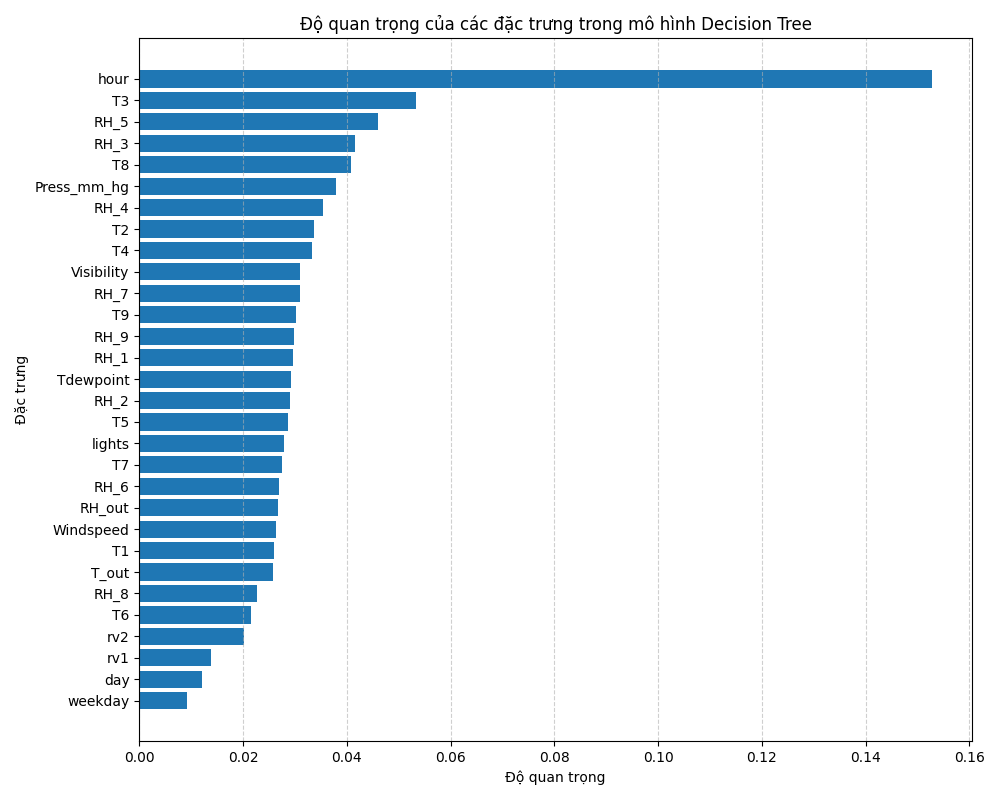
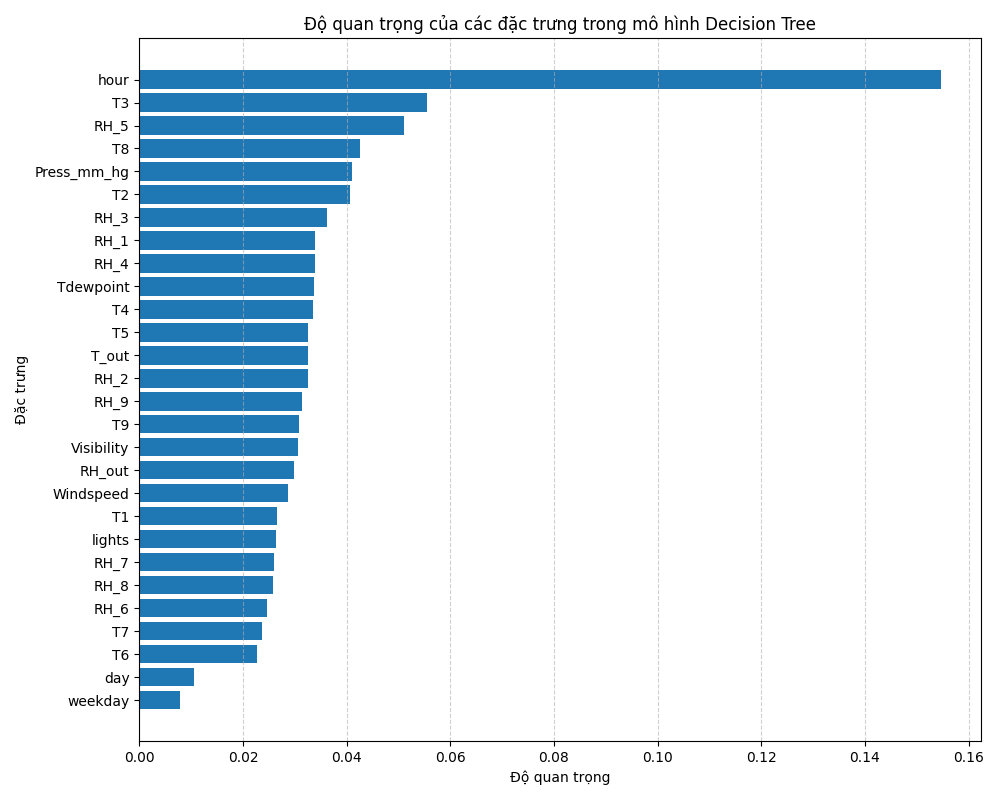
big update

diff --git a/decision_tree_model.py b/decision_tree_model.py
@@ -1,44 +1,50 @@
 import pandas as pd
-from sklearn.tree import DecisionTreeRegressor
 from sklearn.model_selection import train_test_split
+from sklearn.tree import DecisionTreeRegressor
+from sklearn.metrics import mean_absolute_error, mean_squared_error, r2_score
 import matplotlib.pyplot as plt
 
-# Đảm bảo bạn đã tải file 'energydata_complete.csv' lên
+# Đọc dữ liệu từ file CSV
+# Dữ liệu gồm nhiều thông số đo lường tiêu thụ năng lượng trong gia đình
+
 df = pd.read_csv("energydata_complete.csv")
 
-# Xử lý dữ liệu
+# Tiền xử lý dữ liệu
+# Chuyển cột 'date' sang kiểu datetime để dễ trích xuất thông tin thời gian
+# Tạo thêm các đặc trưng về thời gian: giờ, ngày, thứ trong tuần
+# Loại bỏ các cột không cần thiết khỏi tập đặc trưng (features)
 df['date'] = pd.to_datetime(df['date'])
 df['hour'] = df['date'].dt.hour
 df['day'] = df['date'].dt.day
 df['weekday'] = df['date'].dt.weekday
-features = df.drop(columns=['date', 'Appliances', 'rv1', 'rv2'])
+features = df.drop(columns=['date', 'Appliances', 'rv1', 'rv2'])  # Tập đặc trưng đầu vào
+
+# Biến mục tiêu là lượng tiêu thụ thiết bị điện ('Appliances')
 target = df['Appliances']
+
+# Chia dữ liệu thành tập huấn luyện và tập kiểm tra (80% - 20%)
 X_train, X_test, y_train, y_test = train_test_split(features, target, test_size=0.2, random_state=42)
 
-# Huấn luyện mô hình cây quyết định (cây đầy đủ)
+# Khởi tạo và huấn luyện mô hình cây quyết định (Decision Tree)
 model = DecisionTreeRegressor(random_state=42)
 model.fit(X_train, y_train)
 
-# Lấy độ quan trọng của các đặc trưng từ mô hình ĐẦY ĐỦ
-importances = model.feature_importances_
-feature_names = features.columns
+# Dự đoán trên tập kiểm tra
+preds = model.predict(X_test)
 
-# Tạo DataFrame để dễ xem và vẽ
-feature_importance_df = pd.DataFrame({'Feature': feature_names, 'Importance': importances})
-feature_importance_df = feature_importance_df.sort_values(by='Importance', ascending=False)
+# Đánh giá chất lượng mô hình bằng các chỉ số MAE, MSE, R2
+print("\n🎯 Decision Tree")
+print("MAE:", mean_absolute_error(y_test, preds))  # Sai số tuyệt đối trung bình
+print("MSE:", mean_squared_error(y_test, preds))  # Sai số bình phương trung bình
+print("R2 Score:", r2_score(y_test, preds))       # Hệ số xác định (độ phù hợp)
 
-# In ra các đặc trưng quan trọng nhất
-print("Top 10 đặc trưng quan trọng nhất của mô hình (cây đầy đủ):")
-print(feature_importance_df.head(10))
-
-# Vẽ biểu đồ
-plt.figure(figsize=(10, 8))
-plt.barh(feature_importance_df['Feature'], feature_importance_df['Importance'])
-plt.xlabel("Độ quan trọng")
-plt.ylabel("Đặc trưng")
-plt.title("Độ quan trọng của các đặc trưng trong mô hình Decision Tree")
-plt.gca().invert_yaxis()  # Đưa đặc trưng quan trọng nhất lên trên cùng
-plt.grid(axis='x', linestyle='--', alpha=0.6)
-plt.tight_layout() # Đảm bảo các nhãn không bị cắt
-plt.savefig("feature_importance.png")
-print("\nĐã lưu biểu đồ độ quan trọng vào file: feature_importance.png")
+# Trực quan hóa: So sánh giá trị thực tế và dự đoán trên 100 điểm dữ liệu đầu tiên
+plt.figure(figsize=(12, 5))
+plt.plot(y_test.values[:100], label="Thực tế")
+plt.plot(preds[:100], label="Decision Tree Dự đoán", alpha=0.7)
+plt.title("Decision Tree: So sánh dự đoán vs thực tế (100 điểm đầu)")
+plt.xlabel("Điểm dữ liệu")
+plt.ylabel("Tiêu thụ năng lượng (Wh)")
+plt.legend()
+plt.grid(True)
+plt.show()

diff --git a/random_forest_model.py b/random_forest_model.py
@@ -4,28 +4,41 @@ from sklearn.ensemble import RandomForestRegressor
 from sklearn.metrics import mean_absolute_error, mean_squared_error, r2_score
 import matplotlib.pyplot as plt
 
-# Load and preprocess data
+# Đọc dữ liệu từ file CSV
+# Dữ liệu gồm nhiều thông số đo lường tiêu thụ năng lượng trong gia đình
+
 df = pd.read_csv("energydata_complete.csv")
+
+# Tiền xử lý dữ liệu
+# Chuyển cột 'date' sang kiểu datetime để dễ trích xuất thông tin thời gian
+# Tạo thêm các đặc trưng về thời gian: giờ, ngày, thứ trong tuần
+# Loại bỏ các cột không cần thiết khỏi tập đặc trưng (features)
 df['date'] = pd.to_datetime(df['date'])
 df['hour'] = df['date'].dt.hour
 df['day'] = df['date'].dt.day
 df['weekday'] = df['date'].dt.weekday
-features = df.drop(columns=['date', 'Appliances', 'rv1', 'rv2'])
+features = df.drop(columns=['date', 'Appliances', 'rv1', 'rv2'])  # Tập đặc trưng đầu vào
+
+# Biến mục tiêu là lượng tiêu thụ thiết bị điện ('Appliances')
 target = df['Appliances']
+
+# Chia dữ liệu thành tập huấn luyện và tập kiểm tra (80% - 20%)
 X_train, X_test, y_train, y_test = train_test_split(features, target, test_size=0.2, random_state=42)
 
-# Train model
+# Khởi tạo và huấn luyện mô hình rừng ngẫu nhiên (Random Forest)
 model = RandomForestRegressor(n_estimators=50, random_state=42)
 model.fit(X_train, y_train)
+
+# Dự đoán trên tập kiểm tra
 preds = model.predict(X_test)
 
-# Evaluation
+# Đánh giá chất lượng mô hình bằng các chỉ số MAE, MSE, R2
 print("\n🎯 Random Forest")
-print("MAE:", mean_absolute_error(y_test, preds))
-print("MSE:", mean_squared_error(y_test, preds))
-print("R2 Score:", r2_score(y_test, preds))
+print("MAE:", mean_absolute_error(y_test, preds))  # Sai số tuyệt đối trung bình
+print("MSE:", mean_squared_error(y_test, preds))  # Sai số bình phương trung bình
+print("R2 Score:", r2_score(y_test, preds))       # Hệ số xác định (độ phù hợp)
 
-# Visualization
+# Trực quan hóa: So sánh giá trị thực tế và dự đoán trên 100 điểm dữ liệu đầu tiên
 plt.figure(figsize=(12, 5))
 plt.plot(y_test.values[:100], label="Thực tế")
 plt.plot(preds[:100], label="Random Forest Dự đoán", alpha=0.7)
